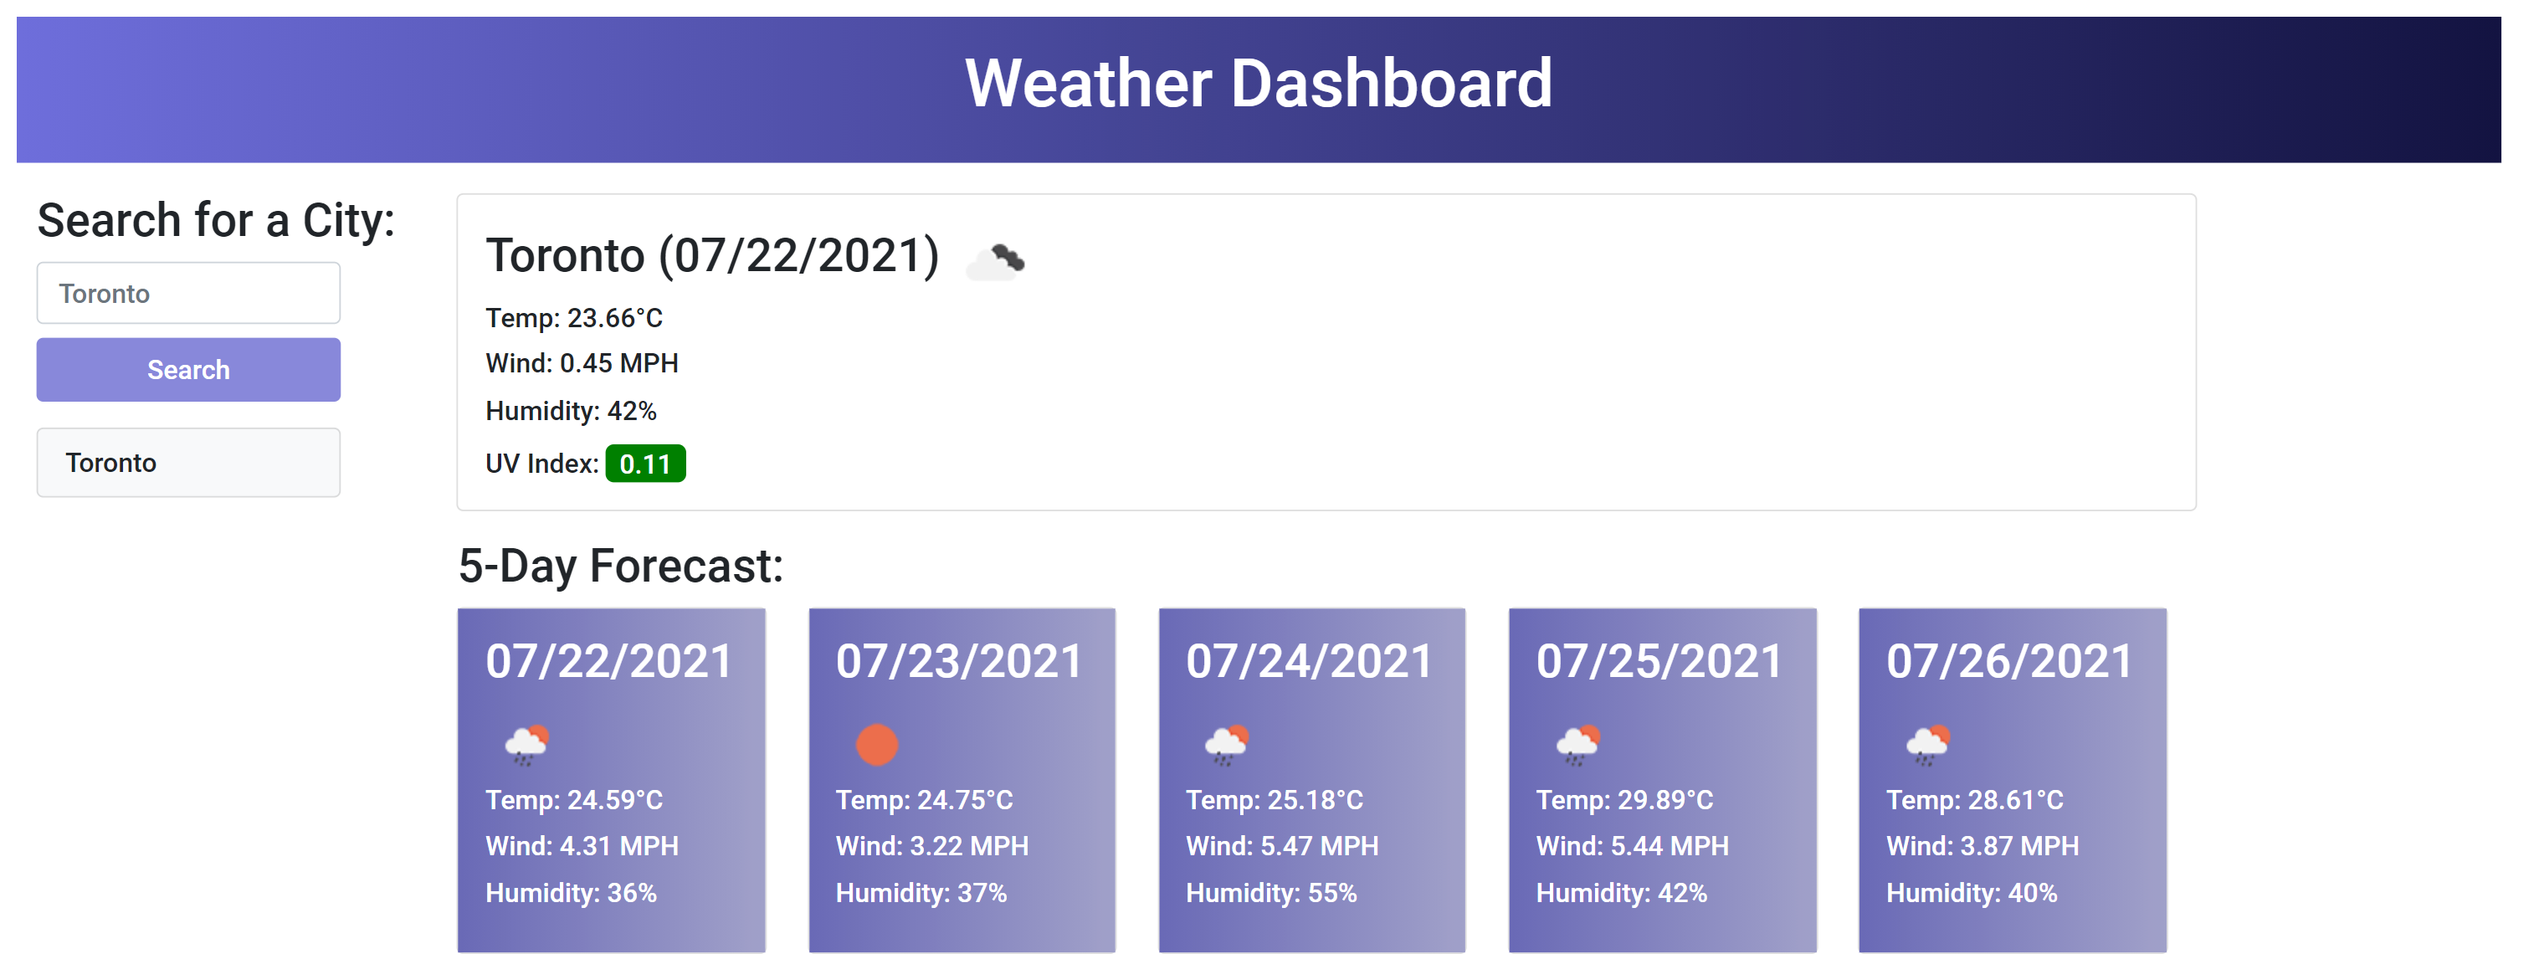
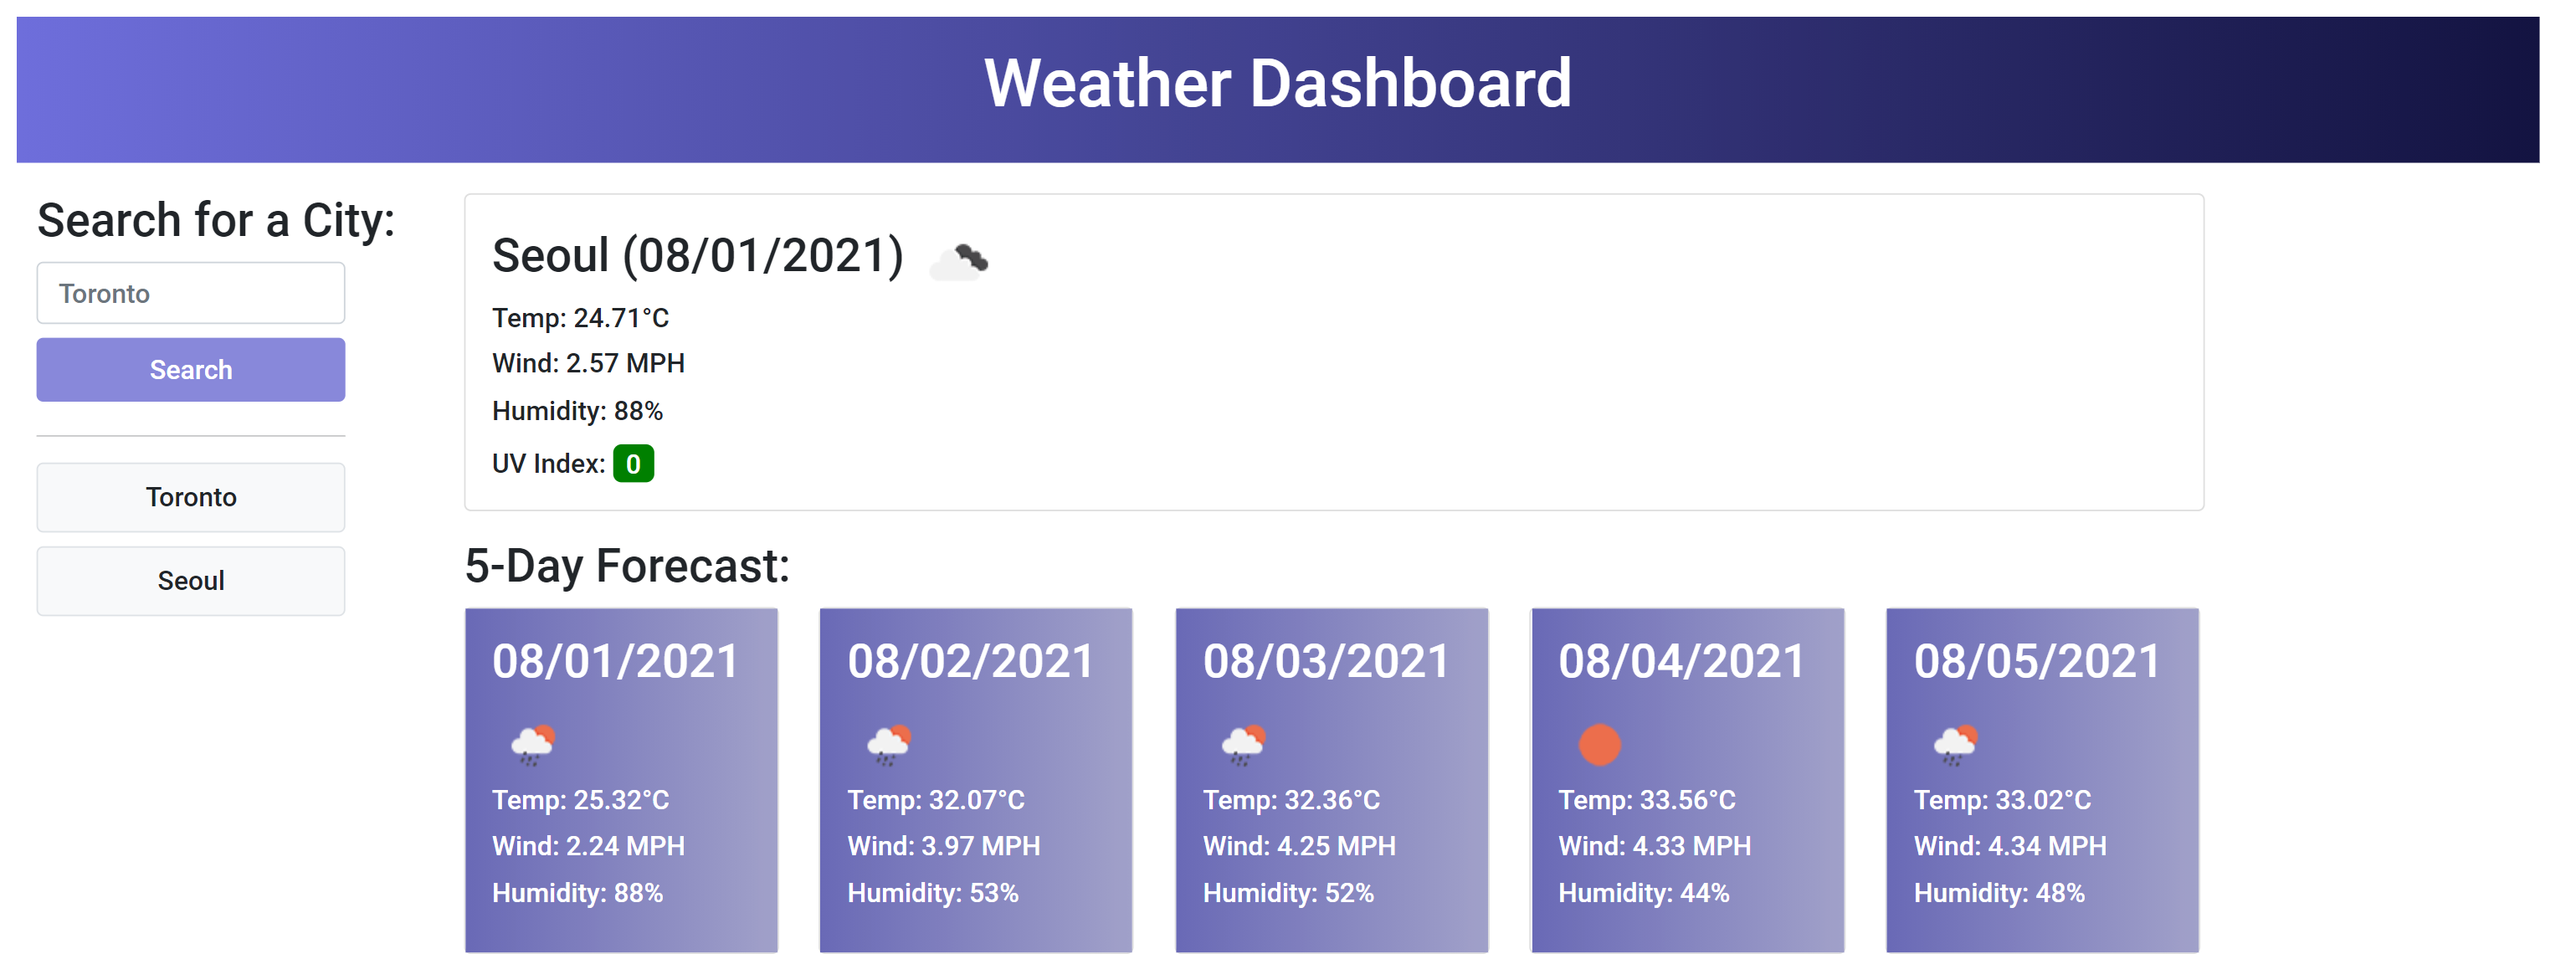
added hr tag & upated button styling

diff --git a/index.html b/index.html
@@ -23,8 +23,11 @@
       <h3>Search for a City:</h3>
         <form>
         <input type="search" id="city-name" autofocus="true" class="form-control mb-2" placeholder="Toronto"/>
-        <button type="submit" class="btn mb-2">Search</button>
-        </form>
+        <button type="submit" class="btn mb-1">Search</button>
+        <hr>
+      </form>
+      
+        
       <div id="previouSearch">
         <ul class="list-group mt-2">      
         </ul>

diff --git a/Assets/js/script.js b/Assets/js/script.js
@@ -24,7 +24,7 @@ var searchHistory = function() {
 
     searchedCities.forEach(function (searchedCity) {
         var cityList = $("<li class=list-group-item>");
-        cityList.addClass("city-list bg-light mb-2 border rounded");
+        cityList.addClass("city-list bg-light mb-2 border rounded text-center");
         cityList.text(searchedCity);
         $(".list-group").append(cityList);
     });

diff --git a/Assets/css/style.css b/Assets/css/style.css
@@ -27,6 +27,10 @@
     text-align: center;
 }
 
+hr {
+    width: 80%;
+}
+
 /* Forecast Section */
 
 .city-title, .image1, .city-uv, .city-uv-class {
